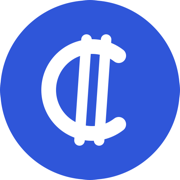
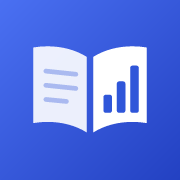
Empezar de cero en Ajustes (borra todo el hogar); app se llama Clear Books (Books en el inicio) con ícono nuevo

diff --git a/src/components/settings/DataSection.jsx b/src/components/settings/DataSection.jsx
@@ -1,16 +1,46 @@
 import { useState } from 'react'
-import { FileJson, FileSpreadsheet, LogOut } from 'lucide-react'
+import { FileJson, FileSpreadsheet, LogOut, Trash2 } from 'lucide-react'
 import { signOut } from 'firebase/auth'
 import { auth } from '../../firebaseConfig.js'
 import { downloadBackup, downloadExcel } from '../../data/archive.js'
-import { saveProfile } from '../../data/actions/index.js'
-import { AmountInput, Button, Card, Field, useToast } from '../ui/index.js'
+import { saveProfile, wipeHousehold } from '../../data/actions/index.js'
+import { clearState as clearOnboardingDraft } from '../onboarding/defaults.js'
+import { AmountInput, Button, Card, Field, Input, Sheet, useToast } from '../ui/index.js'
 import pkg from '../../../package.json'
+
+const CONFIRM_WORD = 'BORRAR'
+
+// Recordatorios locales (último lugar/categoría): no deben sobrevivir al hogar borrado.
+const clearLocalPrefs = () => {
+  try {
+    Object.keys(window.localStorage).filter((k) => k.startsWith('cb.')).forEach((k) => window.localStorage.removeItem(k))
+  } catch {
+    /* almacenamiento bloqueado: se ignora */
+  }
+}
 
 export default function DataSection({ hid, me, profile }) {
   const toast = useToast()
   const [busy, setBusy] = useState(null)
   const [rate, setRate] = useState(profile?.exchangeRateDefault ?? null)
+  const [wipeOpen, setWipeOpen] = useState(false)
+  const [confirmText, setConfirmText] = useState('')
+  const isOwner = !!me?.uid && hid === me.uid
+  const confirmed = confirmText.trim().toUpperCase() === CONFIRM_WORD
+
+  // Al borrar el perfil, RequireHousehold manda solo al onboarding.
+  const wipe = () =>
+    run('wipe', async () => {
+      await wipeHousehold(hid, me)
+      clearLocalPrefs()
+      clearOnboardingDraft()
+    }, 'Listo, empezás de cero')
+
+  const closeWipe = () => {
+    if (busy === 'wipe') return
+    setWipeOpen(false)
+    setConfirmText('')
+  }
 
   const run = async (key, fn, msg) => {
     setBusy(key)
@@ -25,41 +55,93 @@ export default function DataSection({ hid, me, profile }) {
   }
 
   return (
-    <div className="space-y-6">
-      <Card title="Exportar" subtitle="Todos tus datos: meses, ahorro, gastos y plantillas.">
-        <div className="flex flex-col gap-3 sm:flex-row">
-          <Button variant="secondary" icon={FileSpreadsheet} loading={busy === 'xlsx'} onClick={() => run('xlsx', () => downloadExcel(hid))}>
-            Descargar Excel
-          </Button>
-          <Button variant="secondary" icon={FileJson} loading={busy === 'json'} onClick={() => run('json', () => downloadBackup(hid))}>
-            Descargar respaldo JSON
-          </Button>
-        </div>
-      </Card>
+    <>
+      <div className="space-y-6">
+        <Card title="Exportar" subtitle="Todos tus datos: meses, ahorro, gastos y plantillas.">
+          <div className="flex flex-col gap-3 sm:flex-row">
+            <Button variant="secondary" icon={FileSpreadsheet} loading={busy === 'xlsx'} onClick={() => run('xlsx', () => downloadExcel(hid))}>
+              Descargar Excel
+            </Button>
+            <Button variant="secondary" icon={FileJson} loading={busy === 'json'} onClick={() => run('json', () => downloadBackup(hid))}>
+              Descargar respaldo JSON
+            </Button>
+          </div>
+        </Card>
 
-      <Card title="Tipo de cambio de respaldo" subtitle="Se usa solo si no podemos traer el del BCCR al abrir un mes nuevo.">
-        <div className="space-y-3">
-          <Field label="Colones por dólar">
-            <AmountInput value={rate} currency="CRC" allowCurrencyToggle={false} onChange={({ amount }) => setRate(amount)} />
+        <Card title="Tipo de cambio de respaldo" subtitle="Se usa solo si no podemos traer el del BCCR al abrir un mes nuevo.">
+          <div className="space-y-3">
+            <Field label="Colones por dólar">
+              <AmountInput value={rate} currency="CRC" allowCurrencyToggle={false} onChange={({ amount }) => setRate(amount)} />
+            </Field>
+            <Button
+              variant="secondary"
+              disabled={!(Number(rate) > 0) || Number(rate) === profile?.exchangeRateDefault}
+              loading={busy === 'rate'}
+              onClick={() => run('rate', () => saveProfile(hid, me, { exchangeRateDefault: Number(rate) }), 'Tipo de cambio guardado')}
+            >
+              Guardar
+            </Button>
+          </div>
+        </Card>
+
+        <Card title="Cuenta" subtitle={me?.email || undefined}>
+          <Button variant="danger" icon={LogOut} loading={busy === 'out'} onClick={() => run('out', () => signOut(auth))}>
+            Cerrar sesión
+          </Button>
+        </Card>
+
+        <Card
+          title="Empezar de cero"
+          subtitle={
+            isOwner
+              ? 'Borra todos tus meses, gastos, ahorro, plantillas y perfil. Después arrancás la configuración desde el principio.'
+              : 'Solo quien creó el hogar puede borrarlo.'
+          }
+        >
+          {isOwner && (
+            <Button variant="secondary" icon={Trash2} onClick={() => setWipeOpen(true)}>
+              Borrar mis datos
+            </Button>
+          )}
+        </Card>
+
+        <p className="tnum px-1 text-small text-muted">Clear Books v{pkg.version}</p>
+      </div>
+
+      <Sheet
+        open={wipeOpen}
+        onClose={closeWipe}
+        title="¿Borrar todos tus datos?"
+        footer={
+          <div className="flex gap-3">
+            <Button variant="ghost" disabled={busy === 'wipe'} onClick={closeWipe}>Cancelar</Button>
+            <Button full variant="danger" icon={Trash2} disabled={!confirmed} loading={busy === 'wipe'} onClick={wipe}>
+              Borrar todo
+            </Button>
+          </div>
+        }
+      >
+        <div className="space-y-4">
+          <p className="text-body">
+            Se borran para siempre tus meses, gastos, movimientos de ahorro, gastos fijos y anuales, lugares de ahorro y tu perfil.
+            {profile?.partnerEmail ? ` ${profile.partnerEmail} también deja de ver el hogar.` : ''} No se puede deshacer.
+          </p>
+          <Button variant="secondary" icon={FileJson} loading={busy === 'json'} disabled={busy === 'wipe'} onClick={() => run('json', () => downloadBackup(hid))}>
+            Descargar respaldo antes
+          </Button>
+          <Field label={`Escribí ${CONFIRM_WORD} para confirmar`}>
+            <Input
+              value={confirmText}
+              onChange={(e) => setConfirmText(e.target.value)}
+              autoCapitalize="characters"
+              autoComplete="off"
+              autoCorrect="off"
+              spellCheck={false}
+              disabled={busy === 'wipe'}
+            />
           </Field>
-          <Button
-            variant="secondary"
-            disabled={!(Number(rate) > 0) || Number(rate) === profile?.exchangeRateDefault}
-            loading={busy === 'rate'}
-            onClick={() => run('rate', () => saveProfile(hid, me, { exchangeRateDefault: Number(rate) }), 'Tipo de cambio guardado')}
-          >
-            Guardar
-          </Button>
         </div>
-      </Card>
-
-      <Card title="Cuenta" subtitle={me?.email || undefined}>
-        <Button variant="danger" icon={LogOut} loading={busy === 'out'} onClick={() => run('out', () => signOut(auth))}>
-          Cerrar sesión
-        </Button>
-      </Card>
-
-      <p className="tnum px-1 text-small text-muted">clear-books v{pkg.version}</p>
-    </div>
+      </Sheet>
+    </>
   )
 }

diff --git a/src/data/actions/reset.js b/src/data/actions/reset.js
@@ -1,0 +1,25 @@
+// Empezar de cero: borra todo el hogar (lo mismo que exporta archive.js).
+// El perfil va de último: si algo falla a medio camino, el hogar sigue en pie y se
+// puede reintentar; al borrarlo, la app manda al onboarding.
+import { deleteDoc, getDocs } from "firebase/firestore";
+import { profileRef, placesCol, recurringCol, annualCol, monthsCol, ledgerCol, entriesCol } from "../db.js";
+import { newBatch, isOffline } from "../snap.js";
+
+const BATCH_MAX = 450; // límite de Firestore: 500 operaciones por batch
+
+export async function wipeHousehold(hid, me) {
+  if (!hid || hid !== me?.uid) throw new Error("Solo quien creó el hogar puede borrarlo");
+  if (isOffline()) throw new Error("Necesitás conexión para borrar tus datos");
+
+  const cols = [entriesCol, ledgerCol, monthsCol, recurringCol, annualCol, placesCol];
+  const snaps = await Promise.all(cols.map((c) => getDocs(c(hid))));
+  const refs = snaps.flatMap((s) => s.docs.map((d) => d.ref));
+
+  for (let i = 0; i < refs.length; i += BATCH_MAX) {
+    const batch = newBatch();
+    refs.slice(i, i + BATCH_MAX).forEach((r) => batch.delete(r));
+    await batch.commit();
+  }
+  await deleteDoc(profileRef(hid));
+  return refs.length + 1;
+}

diff --git a/src/pages/SettingsPage.jsx b/src/pages/SettingsPage.jsx
@@ -17,7 +17,7 @@ const SECTIONS = [
   { key: 'lugares', title: 'Lugares de ahorro', subtitle: 'Cuentas, CDP, cooperativa', icon: PiggyBank, Comp: PlacesSection },
   { key: 'categorias', title: 'Categorías', subtitle: 'Para los gastos del mes', icon: Tags, Comp: CategoriesSection },
   { key: 'pareja', title: 'Pareja', subtitle: 'Compartir el hogar', icon: Heart, Comp: PartnerSection },
-  { key: 'datos', title: 'Datos y cuenta', subtitle: 'Exportar, tipo de cambio, cerrar sesión', icon: Database, Comp: DataSection },
+  { key: 'datos', title: 'Datos y cuenta', subtitle: 'Exportar, tipo de cambio, sesión, borrar todo', icon: Database, Comp: DataSection },
 ]
 
 export default function SettingsPage() {

diff --git a/index.html b/index.html
@@ -9,10 +9,10 @@
     <meta name="description" content="Tu plan del mes y tu ahorro, en un solo lugar" />
     <meta name="apple-mobile-web-app-capable" content="yes" />
     <meta name="apple-mobile-web-app-status-bar-style" content="default" />
-    <meta name="apple-mobile-web-app-title" content="clear-books" />
+    <meta name="apple-mobile-web-app-title" content="Books" />
     <link rel="icon" type="image/svg+xml" href="/favicon.svg" />
     <link rel="apple-touch-icon" href="/apple-touch-icon.png" />
-    <title>clear-books</title>
+    <title>Clear Books</title>
   </head>
   <body>
     <div id="root"></div>

diff --git a/src/AuthGate.jsx b/src/AuthGate.jsx
@@ -40,7 +40,7 @@ export default function AuthGate({ children }) {
     return (
       <main className="flex min-h-dvh items-center justify-center bg-bg px-gutter">
         <div className="w-full max-w-sm rounded-2xl bg-surface p-6 shadow-card sm:p-8">
-          <h1 className="text-title text-ink">clear-books</h1>
+          <h1 className="text-title text-ink">Clear Books</h1>
           <p className="mt-2 text-body text-ink-2">
             El plan del mes y lo que llevan ahorrado, en un solo lugar. Iniciá sesión para ver tus datos desde
             cualquier dispositivo.

diff --git a/src/pages/OnboardingPage.jsx b/src/pages/OnboardingPage.jsx
@@ -93,7 +93,7 @@ export default function OnboardingPage() {
     <div className="mx-auto flex min-h-dvh max-w-xl flex-col px-gutter">
       <header className="pt-6">
         <div className="flex items-center justify-between text-small text-muted">
-          <span>clear-books</span>
+          <span>Clear Books</span>
           <span className="tnum">Paso {step + 1} de {STEPS.length}</span>
         </div>
         <ProgressBar value={step + 1} max={STEPS.length} className="mt-3" />

diff --git a/src/components/layout/AppShell.jsx b/src/components/layout/AppShell.jsx
@@ -62,7 +62,7 @@ function SideNav({ pathname }) {
       aria-label="Principal"
       className="fixed inset-y-0 left-0 z-30 hidden w-side flex-col border-r border-line bg-surface px-3 pb-4 pt-5 lg:flex"
     >
-      <p className="mb-6 px-3 text-heading text-ink">clear-books</p>
+      <p className="mb-6 px-3 text-heading text-ink">Clear Books</p>
       <ul className="flex flex-col gap-1">
         {NAV.map((item) => (
           <li key={item.to}>

diff --git a/vite.config.js b/vite.config.js
@@ -13,8 +13,8 @@ export default defineConfig(({ command }) => ({
       registerType: 'autoUpdate',
       includeAssets: ['icon.svg', 'favicon.svg', 'apple-touch-icon.png'],
       manifest: {
-        name: 'clear-books',
-        short_name: 'clear-books',
+        name: 'Clear Books',
+        short_name: 'Books',
         description: 'Tu plan del mes y tu ahorro, en un solo lugar',
         lang: 'es-CR',
         start_url: '/clear-books/',

diff --git a/src/data/actions/index.js b/src/data/actions/index.js
@@ -9,3 +9,4 @@ export {
 export { markFixed, updateFixedItem, updateMonthField, addExtra, removeExtra, payAnnual } from "./month.js";
 export { addEntry, updateEntry, removeEntry } from "./entries.js";
 export { closeMonth, markCloseSeen } from "./close.js";
+export { wipeHousehold } from "./reset.js";
